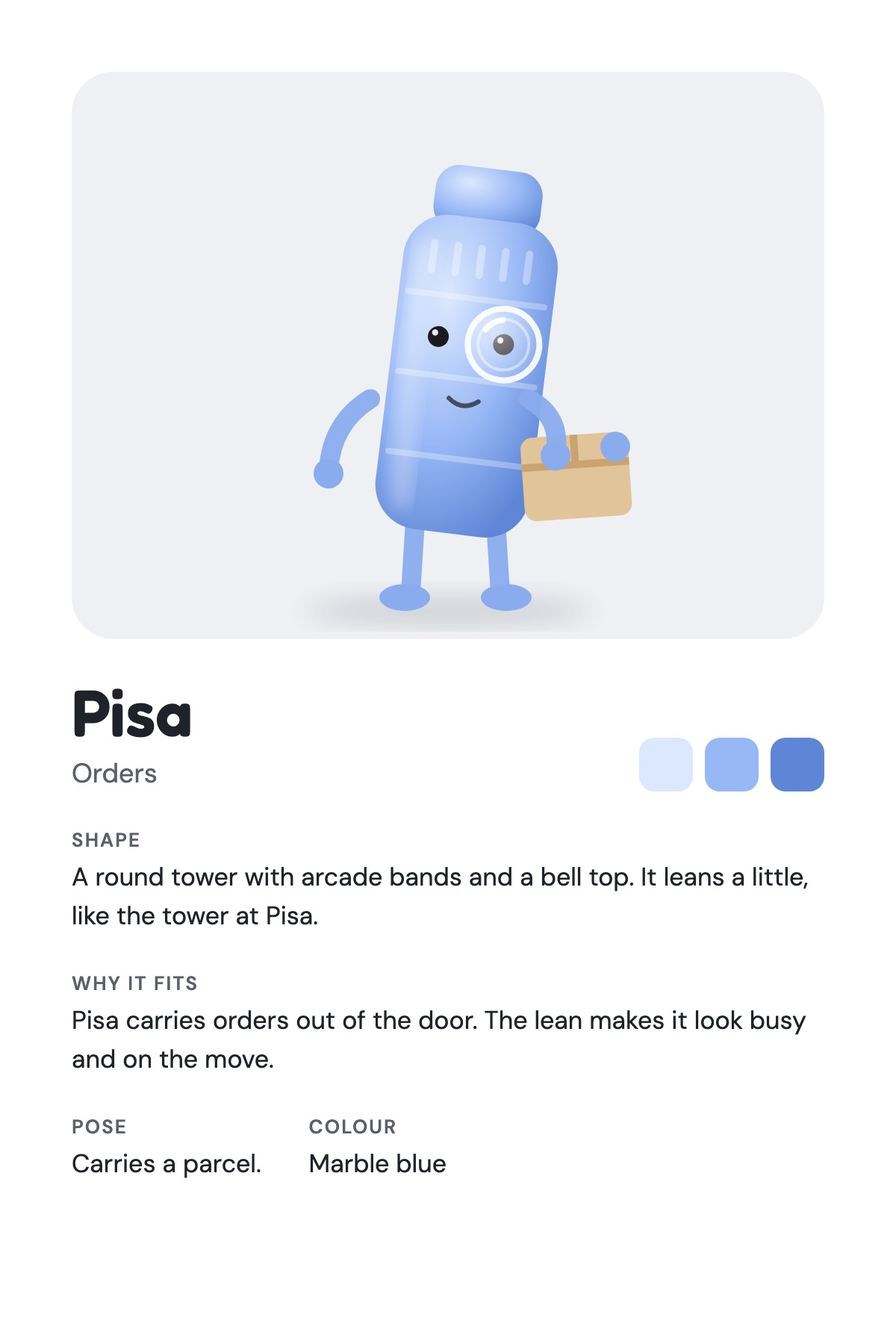
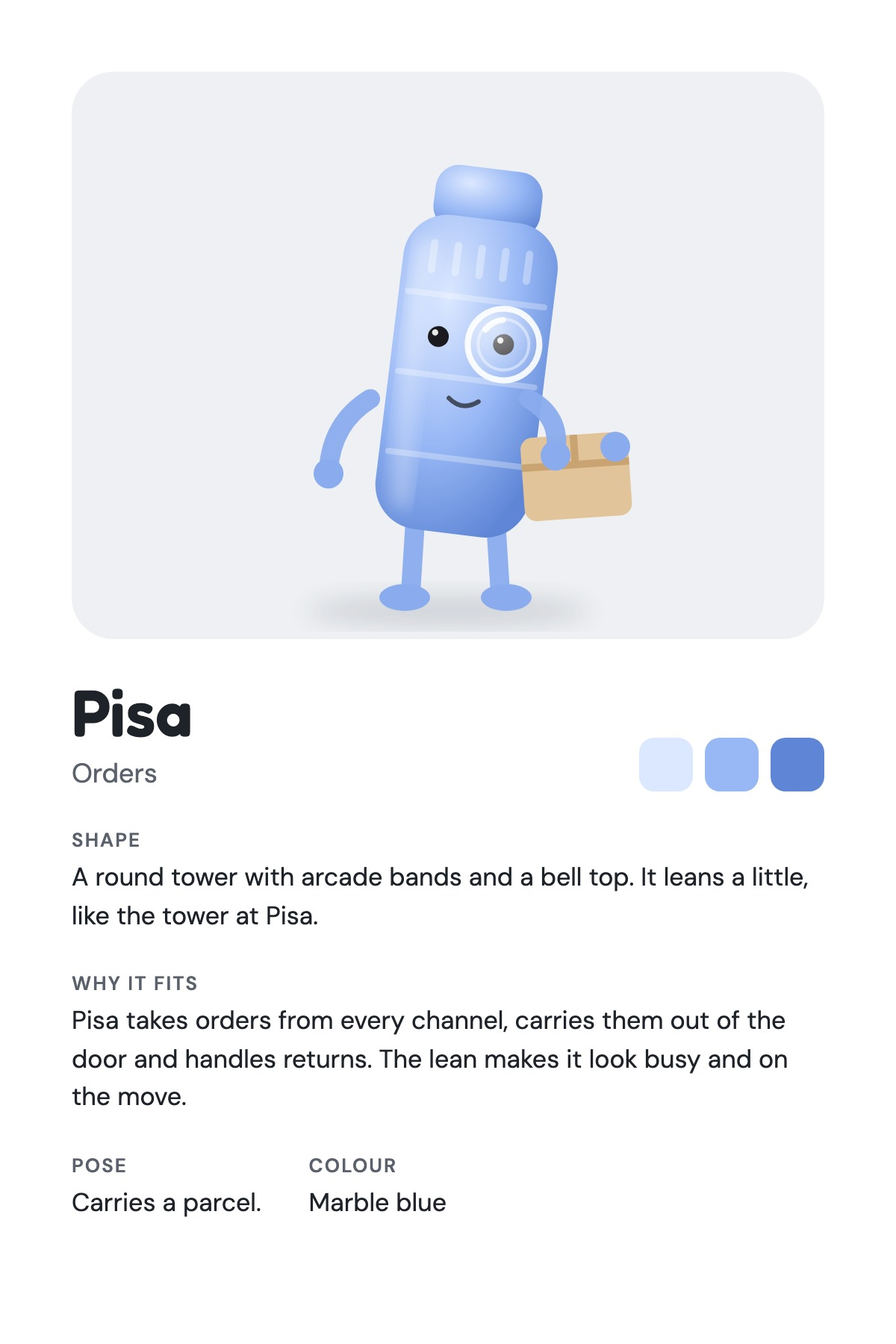
Add Alexandria and Venice, the catalog and channels mascots
Alexandria is a bookcase with an arched top. It keeps the product catalog correct. Venice is the Rialto Bridge. It lists the products on every sales channel. Pisa now takes orders from every channel and handles returns. The lineup has seven columns for thirteen mascots.

Changed region(s): [[0.0617, 0.7467, 0.8942, 0.9022]]

diff --git a/index.html b/index.html
@@ -127,7 +127,7 @@ th:first-child,td:first-child{padding-left:20px}th:last-child,td:last-child{padd
 <a class="brand" href="#overview">tensquads design system</a>
 <div class="search"><svg viewBox="0 0 18 18" width="18" height="18" aria-hidden="true" fill="none" stroke="currentColor" stroke-width="1.4" stroke-linecap="round" stroke-linejoin="round"><circle cx="8" cy="8" r="4.8"/><path d="m11.6 11.6 3.4 3.4"/></svg><input type="search" placeholder="Search" aria-label="Search the menu" autocomplete="off"></div>
 <nav aria-label="Design system">
-<ul class="main-nav"><li><a href="#overview" data-q="Overview"><svg viewBox="0 0 18 18" width="18" height="18" aria-hidden="true" fill="none" stroke="currentColor" stroke-width="1.4" stroke-linecap="round" stroke-linejoin="round"><path d="M2.5 3.5h4.5a2 2 0 0 1 2 2v8a1.5 1.5 0 0 0-1.5-1.5h-5zM15.5 3.5H11a2 2 0 0 0-2 2v8a1.5 1.5 0 0 1 1.5-1.5h5z"/></svg><span>Overview</span></a></li><li><a href="#colors" data-q="Colors"><svg viewBox="0 0 18 18" width="18" height="18" aria-hidden="true" fill="none" stroke="currentColor" stroke-width="1.4" stroke-linecap="round" stroke-linejoin="round"><path d="M9 2.5a6.5 6.5 0 1 0 0 13c1 0 1.5-.6 1.5-1.4 0-1.1-.9-1.4-.9-2.3 0-.8.6-1.3 1.4-1.3h1.6a2.9 2.9 0 0 0 2.9-2.9C15.5 4.9 12.6 2.5 9 2.5z"/><circle cx="5.8" cy="8" r=".9"/><circle cx="8" cy="5.5" r=".9"/><circle cx="11.2" cy="6.2" r=".9"/></svg><span>Colors</span><span class="n">265</span></a></li><li><a href="#typography" data-q="Typography"><svg viewBox="0 0 18 18" width="18" height="18" aria-hidden="true" fill="none" stroke="currentColor" stroke-width="1.4" stroke-linecap="round" stroke-linejoin="round"><path d="M2.5 6V4.5h7V6M6 4.5v9M10 9V8h5.5v1M12.75 8v5.5"/></svg><span>Typography</span><span class="n">33</span></a></li><li><a href="#spacing" data-q="Spacing"><svg viewBox="0 0 18 18" width="18" height="18" aria-hidden="true" fill="none" stroke="currentColor" stroke-width="1.4" stroke-linecap="round" stroke-linejoin="round"><path d="M2.5 9h13M5 6.5 2.5 9 5 11.5M13 6.5l2.5 2.5-2.5 2.5"/></svg><span>Spacing</span><span class="n">45</span></a></li><li><a href="#radius" data-q="Corner radius"><svg viewBox="0 0 18 18" width="18" height="18" aria-hidden="true" fill="none" stroke="currentColor" stroke-width="1.4" stroke-linecap="round" stroke-linejoin="round"><path d="M3 7V5a2 2 0 0 1 2-2h2M11 3h2a2 2 0 0 1 2 2v2M15 11v2a2 2 0 0 1-2 2h-2M7 15H5a2 2 0 0 1-2-2v-2"/></svg><span>Corner radius</span><span class="n">10</span></a></li><li><a href="#shadows" data-q="Shadows"><svg viewBox="0 0 18 18" width="18" height="18" aria-hidden="true" fill="none" stroke="currentColor" stroke-width="1.4" stroke-linecap="round" stroke-linejoin="round"><rect x="2.5" y="2.5" width="9.5" height="9.5" rx="2"/><path d="M12 6h1.5a2 2 0 0 1 2 2v5.5a2 2 0 0 1-2 2H8a2 2 0 0 1-2-2V12"/></svg><span>Shadows</span><span class="n">11</span></a></li><li><a href="#easing" data-q="Easing"><svg viewBox="0 0 18 18" width="18" height="18" aria-hidden="true" fill="none" stroke="currentColor" stroke-width="1.4" stroke-linecap="round" stroke-linejoin="round"><circle cx="9" cy="9" r="6.5"/><path d="M9 2.5a6.5 6.5 0 0 0 0 13"/></svg><span>Easing</span><span class="n">5</span></a></li><li><a href="#duration" data-q="Duration"><svg viewBox="0 0 18 18" width="18" height="18" aria-hidden="true" fill="none" stroke="currentColor" stroke-width="1.4" stroke-linecap="round" stroke-linejoin="round"><circle cx="9" cy="9.5" r="6"/><path d="M9 6.5v3l2 1.5M7 2h4"/></svg><span>Duration</span><span class="n">3</span></a></li><li><a href="#components" data-q="Components"><svg viewBox="0 0 18 18" width="18" height="18" aria-hidden="true" fill="none" stroke="currentColor" stroke-width="1.4" stroke-linecap="round" stroke-linejoin="round"><path d="M9 2.5 15 5.8v6.4L9 15.5 3 12.2V5.8zM3 5.8 9 9l6-3.2M9 9v6.5"/></svg><span>Components</span><span class="n">28</span></a><ul class="subnav"><li class="sub-h">Actions</li><li><a href="#components/Badge" data-q="Badge Actions">Badge</a></li><li><a href="#components/Button" data-q="Button Actions">Button</a></li><li><a href="#components/Chip" data-q="Chip Actions">Chip</a></li><li><a href="#components/SegmentedControl" data-q="SegmentedControl Actions">SegmentedControl</a></li><li class="sub-h">Forms</li><li><a href="#components/Input" data-q="Input Forms">Input</a></li><li><a href="#components/Switch" data-q="Switch Forms">Switch</a></li><li class="sub-h">Canvas</li><li><a href="#components/BranchNode" data-q="BranchNode Canvas">BranchNode</a></li><li><a href="#components/Canvas" data-q="Canvas Canvas">Canvas</a></li><li><a href="#components/MiniMap" data-q="MiniMap Canvas">MiniMap</a></li><li><a href="#components/Node" data-q="Node Canvas">Node</a></li><li class="sub-h">Panels</li><li><a href="#components/Inspector" data-q="Inspector Panels">Inspector</a></li><li><a href="#components/Palette" data-q="Palette Panels">Palette</a></li><li class="sub-h">Chrome</li><li><a href="#components/Chat" data-q="Chat Chrome">Chat</a></li><li><a href="#components/CommandPalette" data-q="CommandPalette Chrome">CommandPalette</a></li><li><a href="#components/Header" data-q="Header Chrome">Header</a></li><li><a href="#components/ThemeToggle" data-q="ThemeToggle Chrome">ThemeToggle</a></li><li><a href="#components/Toolbar" data-q="Toolbar Chrome">Toolbar</a></li><li class="sub-h">Data display</li><li><a href="#components/BarChart" data-q="BarChart Data display">BarChart</a></li><li><a href="#components/Bars" data-q="Bars Data display">Bars</a></li><li><a href="#components/Card" data-q="Card Data display">Card</a></li><li><a href="#components/DataTable" data-q="DataTable Data display">DataTable</a></li><li><a href="#components/Distribution" data-q="Distribution Data display">Distribution</a></li><li><a href="#components/EmptyState" data-q="EmptyState Data display">EmptyState</a></li><li><a href="#components/Menu" data-q="Menu Data display">Menu</a></li><li><a href="#components/PageHeader" data-q="PageHeader Data display">PageHeader</a></li><li><a href="#components/StatTile" data-q="StatTile Data display">StatTile</a></li><li><a href="#components/WorkflowCard" data-q="WorkflowCard Data display">WorkflowCard</a></li><li class="sub-h">Pages</li><li><a href="#components/Dashboard" data-q="Dashboard Pages">Dashboard</a></li></ul></li><li><a href="#mascots" data-q="Mascots"><svg viewBox="0 0 18 18" width="18" height="18" aria-hidden="true" fill="none" stroke="currentColor" stroke-width="1.4" stroke-linecap="round" stroke-linejoin="round"><rect x="2.5" y="2.5" width="13" height="13" rx="3"/><circle cx="7" cy="8" r="1"/><circle cx="11.5" cy="8" r="2"/><path d="M6.5 12c1.5 1 3.5 1 5 0"/></svg><span>Mascots</span><span class="n">11</span></a></li></ul>
+<ul class="main-nav"><li><a href="#overview" data-q="Overview"><svg viewBox="0 0 18 18" width="18" height="18" aria-hidden="true" fill="none" stroke="currentColor" stroke-width="1.4" stroke-linecap="round" stroke-linejoin="round"><path d="M2.5 3.5h4.5a2 2 0 0 1 2 2v8a1.5 1.5 0 0 0-1.5-1.5h-5zM15.5 3.5H11a2 2 0 0 0-2 2v8a1.5 1.5 0 0 1 1.5-1.5h5z"/></svg><span>Overview</span></a></li><li><a href="#colors" data-q="Colors"><svg viewBox="0 0 18 18" width="18" height="18" aria-hidden="true" fill="none" stroke="currentColor" stroke-width="1.4" stroke-linecap="round" stroke-linejoin="round"><path d="M9 2.5a6.5 6.5 0 1 0 0 13c1 0 1.5-.6 1.5-1.4 0-1.1-.9-1.4-.9-2.3 0-.8.6-1.3 1.4-1.3h1.6a2.9 2.9 0 0 0 2.9-2.9C15.5 4.9 12.6 2.5 9 2.5z"/><circle cx="5.8" cy="8" r=".9"/><circle cx="8" cy="5.5" r=".9"/><circle cx="11.2" cy="6.2" r=".9"/></svg><span>Colors</span><span class="n">265</span></a></li><li><a href="#typography" data-q="Typography"><svg viewBox="0 0 18 18" width="18" height="18" aria-hidden="true" fill="none" stroke="currentColor" stroke-width="1.4" stroke-linecap="round" stroke-linejoin="round"><path d="M2.5 6V4.5h7V6M6 4.5v9M10 9V8h5.5v1M12.75 8v5.5"/></svg><span>Typography</span><span class="n">33</span></a></li><li><a href="#spacing" data-q="Spacing"><svg viewBox="0 0 18 18" width="18" height="18" aria-hidden="true" fill="none" stroke="currentColor" stroke-width="1.4" stroke-linecap="round" stroke-linejoin="round"><path d="M2.5 9h13M5 6.5 2.5 9 5 11.5M13 6.5l2.5 2.5-2.5 2.5"/></svg><span>Spacing</span><span class="n">45</span></a></li><li><a href="#radius" data-q="Corner radius"><svg viewBox="0 0 18 18" width="18" height="18" aria-hidden="true" fill="none" stroke="currentColor" stroke-width="1.4" stroke-linecap="round" stroke-linejoin="round"><path d="M3 7V5a2 2 0 0 1 2-2h2M11 3h2a2 2 0 0 1 2 2v2M15 11v2a2 2 0 0 1-2 2h-2M7 15H5a2 2 0 0 1-2-2v-2"/></svg><span>Corner radius</span><span class="n">10</span></a></li><li><a href="#shadows" data-q="Shadows"><svg viewBox="0 0 18 18" width="18" height="18" aria-hidden="true" fill="none" stroke="currentColor" stroke-width="1.4" stroke-linecap="round" stroke-linejoin="round"><rect x="2.5" y="2.5" width="9.5" height="9.5" rx="2"/><path d="M12 6h1.5a2 2 0 0 1 2 2v5.5a2 2 0 0 1-2 2H8a2 2 0 0 1-2-2V12"/></svg><span>Shadows</span><span class="n">11</span></a></li><li><a href="#easing" data-q="Easing"><svg viewBox="0 0 18 18" width="18" height="18" aria-hidden="true" fill="none" stroke="currentColor" stroke-width="1.4" stroke-linecap="round" stroke-linejoin="round"><circle cx="9" cy="9" r="6.5"/><path d="M9 2.5a6.5 6.5 0 0 0 0 13"/></svg><span>Easing</span><span class="n">5</span></a></li><li><a href="#duration" data-q="Duration"><svg viewBox="0 0 18 18" width="18" height="18" aria-hidden="true" fill="none" stroke="currentColor" stroke-width="1.4" stroke-linecap="round" stroke-linejoin="round"><circle cx="9" cy="9.5" r="6"/><path d="M9 6.5v3l2 1.5M7 2h4"/></svg><span>Duration</span><span class="n">3</span></a></li><li><a href="#components" data-q="Components"><svg viewBox="0 0 18 18" width="18" height="18" aria-hidden="true" fill="none" stroke="currentColor" stroke-width="1.4" stroke-linecap="round" stroke-linejoin="round"><path d="M9 2.5 15 5.8v6.4L9 15.5 3 12.2V5.8zM3 5.8 9 9l6-3.2M9 9v6.5"/></svg><span>Components</span><span class="n">28</span></a><ul class="subnav"><li class="sub-h">Actions</li><li><a href="#components/Badge" data-q="Badge Actions">Badge</a></li><li><a href="#components/Button" data-q="Button Actions">Button</a></li><li><a href="#components/Chip" data-q="Chip Actions">Chip</a></li><li><a href="#components/SegmentedControl" data-q="SegmentedControl Actions">SegmentedControl</a></li><li class="sub-h">Forms</li><li><a href="#components/Input" data-q="Input Forms">Input</a></li><li><a href="#components/Switch" data-q="Switch Forms">Switch</a></li><li class="sub-h">Canvas</li><li><a href="#components/BranchNode" data-q="BranchNode Canvas">BranchNode</a></li><li><a href="#components/Canvas" data-q="Canvas Canvas">Canvas</a></li><li><a href="#components/MiniMap" data-q="MiniMap Canvas">MiniMap</a></li><li><a href="#components/Node" data-q="Node Canvas">Node</a></li><li class="sub-h">Panels</li><li><a href="#components/Inspector" data-q="Inspector Panels">Inspector</a></li><li><a href="#components/Palette" data-q="Palette Panels">Palette</a></li><li class="sub-h">Chrome</li><li><a href="#components/Chat" data-q="Chat Chrome">Chat</a></li><li><a href="#components/CommandPalette" data-q="CommandPalette Chrome">CommandPalette</a></li><li><a href="#components/Header" data-q="Header Chrome">Header</a></li><li><a href="#components/ThemeToggle" data-q="ThemeToggle Chrome">ThemeToggle</a></li><li><a href="#components/Toolbar" data-q="Toolbar Chrome">Toolbar</a></li><li class="sub-h">Data display</li><li><a href="#components/BarChart" data-q="BarChart Data display">BarChart</a></li><li><a href="#components/Bars" data-q="Bars Data display">Bars</a></li><li><a href="#components/Card" data-q="Card Data display">Card</a></li><li><a href="#components/DataTable" data-q="DataTable Data display">DataTable</a></li><li><a href="#components/Distribution" data-q="Distribution Data display">Distribution</a></li><li><a href="#components/EmptyState" data-q="EmptyState Data display">EmptyState</a></li><li><a href="#components/Menu" data-q="Menu Data display">Menu</a></li><li><a href="#components/PageHeader" data-q="PageHeader Data display">PageHeader</a></li><li><a href="#components/StatTile" data-q="StatTile Data display">StatTile</a></li><li><a href="#components/WorkflowCard" data-q="WorkflowCard Data display">WorkflowCard</a></li><li class="sub-h">Pages</li><li><a href="#components/Dashboard" data-q="Dashboard Pages">Dashboard</a></li></ul></li><li><a href="#mascots" data-q="Mascots"><svg viewBox="0 0 18 18" width="18" height="18" aria-hidden="true" fill="none" stroke="currentColor" stroke-width="1.4" stroke-linecap="round" stroke-linejoin="round"><rect x="2.5" y="2.5" width="13" height="13" rx="3"/><circle cx="7" cy="8" r="1"/><circle cx="11.5" cy="8" r="2"/><path d="M6.5 12c1.5 1 3.5 1 5 0"/></svg><span>Mascots</span><span class="n">13</span></a></li></ul>
 <p class="none">No match.</p>
 <hr>
 <ul><li><a href="https://github.com/moeghashim/tensquads-design-system"><svg viewBox="0 0 18 18" width="18" height="18" aria-hidden="true" fill="none" stroke="currentColor" stroke-width="1.4" stroke-linecap="round" stroke-linejoin="round"><path d="M2.5 5.5a1.5 1.5 0 0 1 1.5-1.5h3.2l1.6 1.8H14a1.5 1.5 0 0 1 1.5 1.5v6.2A1.5 1.5 0 0 1 14 15H4a1.5 1.5 0 0 1-1.5-1.5z"/></svg><span>Source files</span></a></li></ul>
@@ -137,8 +137,8 @@ th:first-child,td:first-child{padding-left:20px}th:last-child,td:last-child{padd
 <main>
 <div class="sheet">
 <section class="view" data-view="overview" data-title="Overview" aria-labelledby="h-overview">
-<header class="vhead"><div><h1 id="h-overview" tabindex="-1">Overview</h1><p class="sub">The reference for how tensquads looks. It holds Agent-UI, the visual language of the app, and the eleven squad mascots. Agent-UI tokens version 1.</p></div></header>
-<div class="stats"><a class="stat" href="#colors"><svg viewBox="0 0 18 18" width="18" height="18" aria-hidden="true" fill="none" stroke="currentColor" stroke-width="1.4" stroke-linecap="round" stroke-linejoin="round"><path d="M9 2.5a6.5 6.5 0 1 0 0 13c1 0 1.5-.6 1.5-1.4 0-1.1-.9-1.4-.9-2.3 0-.8.6-1.3 1.4-1.3h1.6a2.9 2.9 0 0 0 2.9-2.9C15.5 4.9 12.6 2.5 9 2.5z"/><circle cx="5.8" cy="8" r=".9"/><circle cx="8" cy="5.5" r=".9"/><circle cx="11.2" cy="6.2" r=".9"/></svg><b>265</b><span>Colors</span></a><a class="stat" href="#typography"><svg viewBox="0 0 18 18" width="18" height="18" aria-hidden="true" fill="none" stroke="currentColor" stroke-width="1.4" stroke-linecap="round" stroke-linejoin="round"><path d="M2.5 6V4.5h7V6M6 4.5v9M10 9V8h5.5v1M12.75 8v5.5"/></svg><b>33</b><span>Typography</span></a><a class="stat" href="#spacing"><svg viewBox="0 0 18 18" width="18" height="18" aria-hidden="true" fill="none" stroke="currentColor" stroke-width="1.4" stroke-linecap="round" stroke-linejoin="round"><path d="M2.5 9h13M5 6.5 2.5 9 5 11.5M13 6.5l2.5 2.5-2.5 2.5"/></svg><b>45</b><span>Spacing</span></a><a class="stat" href="#radius"><svg viewBox="0 0 18 18" width="18" height="18" aria-hidden="true" fill="none" stroke="currentColor" stroke-width="1.4" stroke-linecap="round" stroke-linejoin="round"><path d="M3 7V5a2 2 0 0 1 2-2h2M11 3h2a2 2 0 0 1 2 2v2M15 11v2a2 2 0 0 1-2 2h-2M7 15H5a2 2 0 0 1-2-2v-2"/></svg><b>10</b><span>Corner radius</span></a><a class="stat" href="#shadows"><svg viewBox="0 0 18 18" width="18" height="18" aria-hidden="true" fill="none" stroke="currentColor" stroke-width="1.4" stroke-linecap="round" stroke-linejoin="round"><rect x="2.5" y="2.5" width="9.5" height="9.5" rx="2"/><path d="M12 6h1.5a2 2 0 0 1 2 2v5.5a2 2 0 0 1-2 2H8a2 2 0 0 1-2-2V12"/></svg><b>11</b><span>Shadows</span></a><a class="stat" href="#easing"><svg viewBox="0 0 18 18" width="18" height="18" aria-hidden="true" fill="none" stroke="currentColor" stroke-width="1.4" stroke-linecap="round" stroke-linejoin="round"><circle cx="9" cy="9" r="6.5"/><path d="M9 2.5a6.5 6.5 0 0 0 0 13"/></svg><b>5</b><span>Easing</span></a><a class="stat" href="#duration"><svg viewBox="0 0 18 18" width="18" height="18" aria-hidden="true" fill="none" stroke="currentColor" stroke-width="1.4" stroke-linecap="round" stroke-linejoin="round"><circle cx="9" cy="9.5" r="6"/><path d="M9 6.5v3l2 1.5M7 2h4"/></svg><b>3</b><span>Duration</span></a><a class="stat" href="#components"><svg viewBox="0 0 18 18" width="18" height="18" aria-hidden="true" fill="none" stroke="currentColor" stroke-width="1.4" stroke-linecap="round" stroke-linejoin="round"><path d="M9 2.5 15 5.8v6.4L9 15.5 3 12.2V5.8zM3 5.8 9 9l6-3.2M9 9v6.5"/></svg><b>28</b><span>Components</span></a><a class="stat" href="#mascots"><svg viewBox="0 0 18 18" width="18" height="18" aria-hidden="true" fill="none" stroke="currentColor" stroke-width="1.4" stroke-linecap="round" stroke-linejoin="round"><rect x="2.5" y="2.5" width="13" height="13" rx="3"/><circle cx="7" cy="8" r="1"/><circle cx="11.5" cy="8" r="2"/><path d="M6.5 12c1.5 1 3.5 1 5 0"/></svg><b>11</b><span>Mascots</span></a></div><div class="prose"><p>Agent-UI is the visual language for a node-based agent builder: a quiet neutral chrome, one near-black primary, and six soft tints that tell node families apart. The interface stays out of the way so the graph reads; colour appears only where it carries meaning.</p>
+<header class="vhead"><div><h1 id="h-overview" tabindex="-1">Overview</h1><p class="sub">The reference for how tensquads looks. It holds Agent-UI, the visual language of the app, and the thirteen squad mascots. Agent-UI tokens version 1.</p></div></header>
+<div class="stats"><a class="stat" href="#colors"><svg viewBox="0 0 18 18" width="18" height="18" aria-hidden="true" fill="none" stroke="currentColor" stroke-width="1.4" stroke-linecap="round" stroke-linejoin="round"><path d="M9 2.5a6.5 6.5 0 1 0 0 13c1 0 1.5-.6 1.5-1.4 0-1.1-.9-1.4-.9-2.3 0-.8.6-1.3 1.4-1.3h1.6a2.9 2.9 0 0 0 2.9-2.9C15.5 4.9 12.6 2.5 9 2.5z"/><circle cx="5.8" cy="8" r=".9"/><circle cx="8" cy="5.5" r=".9"/><circle cx="11.2" cy="6.2" r=".9"/></svg><b>265</b><span>Colors</span></a><a class="stat" href="#typography"><svg viewBox="0 0 18 18" width="18" height="18" aria-hidden="true" fill="none" stroke="currentColor" stroke-width="1.4" stroke-linecap="round" stroke-linejoin="round"><path d="M2.5 6V4.5h7V6M6 4.5v9M10 9V8h5.5v1M12.75 8v5.5"/></svg><b>33</b><span>Typography</span></a><a class="stat" href="#spacing"><svg viewBox="0 0 18 18" width="18" height="18" aria-hidden="true" fill="none" stroke="currentColor" stroke-width="1.4" stroke-linecap="round" stroke-linejoin="round"><path d="M2.5 9h13M5 6.5 2.5 9 5 11.5M13 6.5l2.5 2.5-2.5 2.5"/></svg><b>45</b><span>Spacing</span></a><a class="stat" href="#radius"><svg viewBox="0 0 18 18" width="18" height="18" aria-hidden="true" fill="none" stroke="currentColor" stroke-width="1.4" stroke-linecap="round" stroke-linejoin="round"><path d="M3 7V5a2 2 0 0 1 2-2h2M11 3h2a2 2 0 0 1 2 2v2M15 11v2a2 2 0 0 1-2 2h-2M7 15H5a2 2 0 0 1-2-2v-2"/></svg><b>10</b><span>Corner radius</span></a><a class="stat" href="#shadows"><svg viewBox="0 0 18 18" width="18" height="18" aria-hidden="true" fill="none" stroke="currentColor" stroke-width="1.4" stroke-linecap="round" stroke-linejoin="round"><rect x="2.5" y="2.5" width="9.5" height="9.5" rx="2"/><path d="M12 6h1.5a2 2 0 0 1 2 2v5.5a2 2 0 0 1-2 2H8a2 2 0 0 1-2-2V12"/></svg><b>11</b><span>Shadows</span></a><a class="stat" href="#easing"><svg viewBox="0 0 18 18" width="18" height="18" aria-hidden="true" fill="none" stroke="currentColor" stroke-width="1.4" stroke-linecap="round" stroke-linejoin="round"><circle cx="9" cy="9" r="6.5"/><path d="M9 2.5a6.5 6.5 0 0 0 0 13"/></svg><b>5</b><span>Easing</span></a><a class="stat" href="#duration"><svg viewBox="0 0 18 18" width="18" height="18" aria-hidden="true" fill="none" stroke="currentColor" stroke-width="1.4" stroke-linecap="round" stroke-linejoin="round"><circle cx="9" cy="9.5" r="6"/><path d="M9 6.5v3l2 1.5M7 2h4"/></svg><b>3</b><span>Duration</span></a><a class="stat" href="#components"><svg viewBox="0 0 18 18" width="18" height="18" aria-hidden="true" fill="none" stroke="currentColor" stroke-width="1.4" stroke-linecap="round" stroke-linejoin="round"><path d="M9 2.5 15 5.8v6.4L9 15.5 3 12.2V5.8zM3 5.8 9 9l6-3.2M9 9v6.5"/></svg><b>28</b><span>Components</span></a><a class="stat" href="#mascots"><svg viewBox="0 0 18 18" width="18" height="18" aria-hidden="true" fill="none" stroke="currentColor" stroke-width="1.4" stroke-linecap="round" stroke-linejoin="round"><rect x="2.5" y="2.5" width="13" height="13" rx="3"/><circle cx="7" cy="8" r="1"/><circle cx="11.5" cy="8" r="2"/><path d="M6.5 12c1.5 1 3.5 1 5 0"/></svg><b>13</b><span>Mascots</span></a></div><div class="prose"><p>Agent-UI is the visual language for a node-based agent builder: a quiet neutral chrome, one near-black primary, and six soft tints that tell node families apart. The interface stays out of the way so the graph reads; colour appears only where it carries meaning.</p>
 <h2>Principles</h2>
 <ul><li><strong>Neutral first.</strong> Every surface is a grey; hue is reserved for node families and status. The primary action is near-black (<code>primary-solid</code>), never blue.</li><li><strong>Layers by lightness, not by lines.</strong> Panels float on the canvas as slightly lighter cards with a 0.5px <code>panel-border</code>; nodes are white with a 1px ring (<code>shadow-node</code>). Borders are hairlines from the <code>alpha-*</code> ink scale, never solid grey lines.</li><li><strong>Soft, then quiet.</strong> Fills are 8% ink (<code>input-bg</code>, <code>primary-soft</code>); hovers step to 12%, presses to 16%. Nothing glows.</li><li><strong>Round where you hold it.</strong> Panels and node cards use <code>radius-2xl</code> (16px); tiles, inputs and rows <code>radius-md</code> (8px); anything in the header or floating over the canvas is a pill (<code>radius-full</code>).</li></ul>
 <h2>Content</h2>
@@ -485,7 +485,7 @@ th:first-child,td:first-child{padding-left:20px}th:last-child,td:last-child{padd
 <div class="mcard-head"><div><h3 class="mcard-name">Pisa</h3><div class="mcard-role">Orders</div></div>
 <div class="mcard-sw" aria-hidden="true"><span style="background:#DCE8FF"></span><span style="background:#97B7F5"></span><span style="background:#5F86D6"></span></div></div>
 <div class="mcard-row"><div class="mcard-label">Shape</div><div class="mcard-text">A round tower with arcade bands and a bell top. It leans a little, like the tower at Pisa.</div></div>
-<div class="mcard-row"><div class="mcard-label">Why it fits</div><div class="mcard-text">Pisa carries orders out of the door. The lean makes it look busy and on the move.</div></div>
+<div class="mcard-row"><div class="mcard-label">Why it fits</div><div class="mcard-text">Pisa takes orders from every channel, carries them out of the door and handles returns. The lean makes it look busy and on the move.</div></div>
 <div class="mcard-pair"><div class="mcard-row"><div class="mcard-label">Pose</div><div class="mcard-text">Carries a parcel.</div></div><div class="mcard-row"><div class="mcard-label">Colour</div><div class="mcard-text">Marble blue</div></div></div>
 </article></div><p class="dl"><a href="https://raw.githubusercontent.com/moeghashim/tensquads-design-system/main/mascots/svg/pisa.svg">SVG</a><a href="https://raw.githubusercontent.com/moeghashim/tensquads-design-system/main/mascots/png/pisa.png">PNG</a><a href="https://raw.githubusercontent.com/moeghashim/tensquads-design-system/main/mascots/jpeg/pisa.jpg">JPEG</a><a href="https://raw.githubusercontent.com/moeghashim/tensquads-design-system/main/mascots/cards/png/pisa.png">Card PNG</a><a href="https://raw.githubusercontent.com/moeghashim/tensquads-design-system/main/mascots/cards/jpeg/pisa.jpg">Card JPEG</a></p></div>
 <div class="mc"><div class="mcard-wrap"><article class="mcard" aria-label="Kyoto mascot card">
@@ -646,7 +646,50 @@ th:first-child,td:first-child{padding-left:20px}th:last-child,td:last-child{padd
 <div class="mcard-row"><div class="mcard-label">Shape</div><div class="mcard-text">An observatory dome with an open shutter slit and a red time ball on top, like the Royal Observatory at Greenwich.</div></div>
 <div class="mcard-row"><div class="mcard-label">Why it fits</div><div class="mcard-text">Every map starts at the meridian in Greenwich. Greenwich keeps the business on Google Maps and the other maps, correct and easy to find.</div></div>
 <div class="mcard-pair"><div class="mcard-row"><div class="mcard-label">Pose</div><div class="mcard-text">Holds up a folded map.</div></div><div class="mcard-row"><div class="mcard-label">Colour</div><div class="mcard-text">Meridian lime</div></div></div>
-</article></div><p class="dl"><a href="https://raw.githubusercontent.com/moeghashim/tensquads-design-system/main/mascots/svg/greenwich.svg">SVG</a><a href="https://raw.githubusercontent.com/moeghashim/tensquads-design-system/main/mascots/png/greenwich.png">PNG</a><a href="https://raw.githubusercontent.com/moeghashim/tensquads-design-system/main/mascots/jpeg/greenwich.jpg">JPEG</a><a href="https://raw.githubusercontent.com/moeghashim/tensquads-design-system/main/mascots/cards/png/greenwich.png">Card PNG</a><a href="https://raw.githubusercontent.com/moeghashim/tensquads-design-system/main/mascots/cards/jpeg/greenwich.jpg">Card JPEG</a></p></div></div>
+</article></div><p class="dl"><a href="https://raw.githubusercontent.com/moeghashim/tensquads-design-system/main/mascots/svg/greenwich.svg">SVG</a><a href="https://raw.githubusercontent.com/moeghashim/tensquads-design-system/main/mascots/png/greenwich.png">PNG</a><a href="https://raw.githubusercontent.com/moeghashim/tensquads-design-system/main/mascots/jpeg/greenwich.jpg">JPEG</a><a href="https://raw.githubusercontent.com/moeghashim/tensquads-design-system/main/mascots/cards/png/greenwich.png">Card PNG</a><a href="https://raw.githubusercontent.com/moeghashim/tensquads-design-system/main/mascots/cards/jpeg/greenwich.jpg">Card JPEG</a></p></div>
+<div class="mc"><div class="mcard-wrap"><article class="mcard" aria-label="Alexandria mascot card">
+<div class="mcard-art"><svg viewBox="0 0 300 370" role="img" aria-label="Alexandria, the catalog mascot"><defs><radialGradient id="pcatalogb" cx="32%" cy="26%" r="85%"><stop offset="0" stop-color="#D9DBFF"/><stop offset=".55" stop-color="#8E95F2"/><stop offset="1" stop-color="#4F56C4"/></radialGradient><radialGradient id="pcatalogl" cx="35%" cy="30%" r="75%"><stop offset="0" stop-color="#fff" stop-opacity=".55"/><stop offset="1" stop-color="#fff" stop-opacity=".08"/></radialGradient><filter id="pcatalogf" x="-20%" y="-20%" width="140%" height="140%"><feGaussianBlur stdDeviation="6"/></filter><filter id="pcatalogs" x="-50%" y="-50%" width="200%" height="200%"><feGaussianBlur stdDeviation="8"/></filter></defs><ellipse cx="150" cy="356" rx="95" ry="10" fill="#1B2430" opacity=".14" filter="url(#pcatalogs)"/><path d="M124 300 L121 344" fill="none" stroke="#8288EC" stroke-width="13" stroke-linecap="round" stroke-linejoin="round" opacity=".96"/><path d="M176 300 L179 344" fill="none" stroke="#8288EC" stroke-width="13" stroke-linecap="round" stroke-linejoin="round" opacity=".96"/><ellipse cx="117" cy="347" rx="17" ry="9" fill="#8288EC"/><ellipse cx="183" cy="347" rx="17" ry="9" fill="#8288EC"/>
+<path d="M96 222 Q70 238 72 270" fill="none" stroke="#8288EC" stroke-width="13" stroke-linecap="round" stroke-linejoin="round" opacity=".96"/><circle cx="72" cy="272" r="10" fill="#8288EC"/>
+<circle cx="150" cy="58" r="9" fill="#4F56C4" opacity=".85"/>
+<path d="M96 300 L96 118 A54 54 0 0 1 204 118 L204 300 Q204 312 192 312 L108 312 Q96 312 96 300 Z" fill="url(#pcatalogb)"/>
+<rect x="108" y="190" width="84" height="112" rx="8" fill="#4F56C4" opacity=".35"/>
+<rect x="112" y="204" width="12" height="38" rx="2" fill="#F4EFE4"/><rect x="126" y="198" width="10" height="44" rx="2" fill="#E5574A"/><rect x="138" y="206" width="14" height="36" rx="2" fill="#D9AE45"/><rect x="154" y="200" width="10" height="42" rx="2" fill="#5EA885"/><rect x="166" y="204" width="12" height="38" rx="2" fill="#F4EFE4"/><rect x="180" y="210" width="10" height="34" rx="2" fill="#5F86D6" transform="rotate(-12 185 244)"/>
+<rect x="104" y="242" width="92" height="6" rx="3" fill="#4F56C4" opacity=".85"/>
+<rect x="112" y="256" width="10" height="40" rx="2" fill="#5F86D6"/><rect x="124" y="262" width="14" height="34" rx="2" fill="#F4EFE4"/><rect x="140" y="254" width="10" height="42" rx="2" fill="#D9AE45"/><rect x="152" y="260" width="12" height="36" rx="2" fill="#E5574A"/><rect x="166" y="256" width="10" height="40" rx="2" fill="#F4EFE4"/><rect x="178" y="262" width="12" height="34" rx="2" fill="#5EA885"/>
+<rect x="104" y="296" width="92" height="6" rx="3" fill="#4F56C4" opacity=".85"/>
+<path d="M106 118 A44 44 0 0 1 140 76 Q118 100 112 184 Z" fill="#fff" opacity=".42" filter="url(#pcatalogf)"/>
+<circle cx="128" cy="146" r="7" fill="#1B1B1F"/><circle cx="125.55" cy="143.55" r="2.1" fill="#fff" opacity=".9"/><circle cx="172" cy="146" r="7" fill="#1B1B1F"/><circle cx="169.55" cy="143.55" r="2.1" fill="#fff" opacity=".9"/><circle cx="172" cy="146" r="24" fill="url(#pcatalogl)" stroke="#fff" stroke-opacity=".9" stroke-width="4"/><circle cx="172" cy="146" r="17" fill="none" stroke="#fff" stroke-opacity=".45" stroke-width="2"/><path d="M158.8 137.6 A16.799999999999997 16.799999999999997 0 0 1 169.6 129.68" fill="none" stroke="#fff" stroke-width="4" stroke-linecap="round" opacity=".85"/><path d="M140 176 Q150 184 160 176" fill="none" stroke="#1B1B1F" stroke-width="3" stroke-linecap="round" opacity=".7"/>
+<path d="M204 214 Q236 206 244 180" fill="none" stroke="#8288EC" stroke-width="13" stroke-linecap="round" stroke-linejoin="round" opacity=".96"/>
+<path d="M244 180 Q252 196 258 210" fill="none" stroke="#D3C9B5" stroke-width="2"/>
+<g transform="rotate(14 258 232)"><path d="M248 216 L258 206 L268 216 L268 256 L248 256 Z" fill="#F4EFE4" stroke="#D3C9B5" stroke-width="2" stroke-linejoin="round"/><circle cx="258" cy="216" r="3" fill="#D3C9B5"/><path d="M253 232 L263 232 M253 242 L261 242" stroke="#E5574A" stroke-width="3" stroke-linecap="round"/></g>
+<circle cx="244" cy="180" r="10" fill="#8288EC"/></svg></div>
+<div class="mcard-head"><div><h3 class="mcard-name">Alexandria</h3><div class="mcard-role">Catalog</div></div>
+<div class="mcard-sw" aria-hidden="true"><span style="background:#D9DBFF"></span><span style="background:#8E95F2"></span><span style="background:#4F56C4"></span></div></div>
+<div class="mcard-row"><div class="mcard-label">Shape</div><div class="mcard-text">A tall bookcase with an arched top and shelves of coloured book spines, like the great library of Alexandria.</div></div>
+<div class="mcard-row"><div class="mcard-label">Why it fits</div><div class="mcard-text">The library at Alexandria kept a catalog of the known world. Alexandria keeps every product, title, photo, variant and price correct.</div></div>
+<div class="mcard-pair"><div class="mcard-row"><div class="mcard-label">Pose</div><div class="mcard-text">Holds up a price tag.</div></div><div class="mcard-row"><div class="mcard-label">Colour</div><div class="mcard-text">Lapis indigo</div></div></div>
+</article></div><p class="dl"><a href="https://raw.githubusercontent.com/moeghashim/tensquads-design-system/main/mascots/svg/alexandria.svg">SVG</a><a href="https://raw.githubusercontent.com/moeghashim/tensquads-design-system/main/mascots/png/alexandria.png">PNG</a><a href="https://raw.githubusercontent.com/moeghashim/tensquads-design-system/main/mascots/jpeg/alexandria.jpg">JPEG</a><a href="https://raw.githubusercontent.com/moeghashim/tensquads-design-system/main/mascots/cards/png/alexandria.png">Card PNG</a><a href="https://raw.githubusercontent.com/moeghashim/tensquads-design-system/main/mascots/cards/jpeg/alexandria.jpg">Card JPEG</a></p></div>
+<div class="mc"><div class="mcard-wrap"><article class="mcard" aria-label="Venice mascot card">
+<div class="mcard-art"><svg viewBox="0 0 300 370" role="img" aria-label="Venice, the channels mascot"><defs><radialGradient id="pchannelsb" cx="32%" cy="26%" r="85%"><stop offset="0" stop-color="#FFD6F0"/><stop offset=".55" stop-color="#F28CCB"/><stop offset="1" stop-color="#C9529C"/></radialGradient><radialGradient id="pchannelsl" cx="35%" cy="30%" r="75%"><stop offset="0" stop-color="#fff" stop-opacity=".55"/><stop offset="1" stop-color="#fff" stop-opacity=".08"/></radialGradient><filter id="pchannelsf" x="-20%" y="-20%" width="140%" height="140%"><feGaussianBlur stdDeviation="6"/></filter><filter id="pchannelss" x="-50%" y="-50%" width="200%" height="200%"><feGaussianBlur stdDeviation="8"/></filter></defs><ellipse cx="150" cy="356" rx="95" ry="10" fill="#1B2430" opacity=".14" filter="url(#pchannelss)"/><path d="M94 304 L91 344" fill="none" stroke="#EC80C2" stroke-width="13" stroke-linecap="round" stroke-linejoin="round" opacity=".96"/><path d="M206 304 L209 344" fill="none" stroke="#EC80C2" stroke-width="13" stroke-linecap="round" stroke-linejoin="round" opacity=".96"/><ellipse cx="87" cy="347" rx="17" ry="9" fill="#EC80C2"/><ellipse cx="213" cy="347" rx="17" ry="9" fill="#EC80C2"/>
+<path d="M74 236 Q50 252 54 282" fill="none" stroke="#EC80C2" stroke-width="13" stroke-linecap="round" stroke-linejoin="round" opacity=".96"/><circle cx="54" cy="284" r="10" fill="#EC80C2"/>
+<path d="M214 112 L276 300" stroke="#B0894A" stroke-width="7" stroke-linecap="round"/>
+<ellipse cx="279" cy="310" rx="9" ry="22" fill="#C99A5B" transform="rotate(-18 279 310)"/>
+<path d="M122 120 L150 98 L178 120 Z" fill="#C9529C" opacity=".85"/>
+<rect x="128" y="118" width="44" height="44" rx="4" fill="url(#pchannelsb)"/>
+<path d="M140 162 L140 138 A10 10 0 0 1 160 138 L160 162 Z" fill="#C9529C" opacity=".55"/>
+<path d="M74 304 L74 196 Q150 116 226 196 L226 304 Q226 312 218 312 L188 312 L188 300 A38 30 0 0 0 112 300 L112 312 L82 312 Q74 312 74 304 Z" fill="url(#pchannelsb)"/>
+<path d="M86 208 L86 200 A5 5 0 0 1 96 200 L96 208 Z M100 208 L100 200 A5 5 0 0 1 110 200 L110 208 Z M114 208 L114 200 A5 5 0 0 1 124 200 L124 208 Z M176 208 L176 200 A5 5 0 0 1 186 200 L186 208 Z M190 208 L190 200 A5 5 0 0 1 200 200 L200 208 Z M204 208 L204 200 A5 5 0 0 1 214 200 L214 208 Z" fill="#C9529C" opacity=".55"/>
+<path d="M82 214 Q150 172 218 214" fill="none" stroke="#fff" stroke-opacity=".3" stroke-width="4" stroke-linecap="round" stroke-linejoin="round"/>
+<path d="M118 304 q8 -6 16 0 t16 0 t16 0 t16 0" fill="none" stroke="#4C9EC2" stroke-width="4" stroke-linecap="round" opacity=".8"/><path d="M128 296 q6 -4 12 0 t12 0 t12 0" fill="none" stroke="#86CDE8" stroke-width="3" stroke-linecap="round" opacity=".8"/>
+<path d="M84 200 Q110 170 140 160 Q110 182 96 246 Z" fill="#fff" opacity=".42" filter="url(#pchannelsf)"/>
+<circle cx="126" cy="232" r="7" fill="#1B1B1F"/><circle cx="123.55" cy="229.55" r="2.1" fill="#fff" opacity=".9"/><circle cx="174" cy="232" r="7" fill="#1B1B1F"/><circle cx="171.55" cy="229.55" r="2.1" fill="#fff" opacity=".9"/><circle cx="174" cy="232" r="24" fill="url(#pchannelsl)" stroke="#fff" stroke-opacity=".9" stroke-width="4"/><circle cx="174" cy="232" r="17" fill="none" stroke="#fff" stroke-opacity=".45" stroke-width="2"/><path d="M160.8 223.6 A16.799999999999997 16.799999999999997 0 0 1 171.6 215.68" fill="none" stroke="#fff" stroke-width="4" stroke-linecap="round" opacity=".85"/><path d="M140 260 Q150 268 160 260" fill="none" stroke="#1B1B1F" stroke-width="3" stroke-linecap="round" opacity=".7"/>
+<path d="M226 230 Q244 224 246 210" fill="none" stroke="#EC80C2" stroke-width="13" stroke-linecap="round" stroke-linejoin="round" opacity=".96"/><circle cx="246" cy="210" r="10" fill="#EC80C2"/></svg></div>
+<div class="mcard-head"><div><h3 class="mcard-name">Venice</h3><div class="mcard-role">Channels</div></div>
+<div class="mcard-sw" aria-hidden="true"><span style="background:#FFD6F0"></span><span style="background:#F28CCB"></span><span style="background:#C9529C"></span></div></div>
+<div class="mcard-row"><div class="mcard-label">Shape</div><div class="mcard-text">A humped bridge with a centre arch, a small portico on top and rows of shop windows, like the Rialto Bridge in Venice.</div></div>
+<div class="mcard-row"><div class="mcard-label">Why it fits</div><div class="mcard-text">Venice is a city of channels, and the Rialto was a market bridge. Venice lists the products on every sales channel and keeps stock and prices in step.</div></div>
+<div class="mcard-pair"><div class="mcard-row"><div class="mcard-label">Pose</div><div class="mcard-text">Holds a gondola oar.</div></div><div class="mcard-row"><div class="mcard-label">Colour</div><div class="mcard-text">Murano magenta</div></div></div>
+</article></div><p class="dl"><a href="https://raw.githubusercontent.com/moeghashim/tensquads-design-system/main/mascots/svg/venice.svg">SVG</a><a href="https://raw.githubusercontent.com/moeghashim/tensquads-design-system/main/mascots/png/venice.png">PNG</a><a href="https://raw.githubusercontent.com/moeghashim/tensquads-design-system/main/mascots/jpeg/venice.jpg">JPEG</a><a href="https://raw.githubusercontent.com/moeghashim/tensquads-design-system/main/mascots/cards/png/venice.png">Card PNG</a><a href="https://raw.githubusercontent.com/moeghashim/tensquads-design-system/main/mascots/cards/jpeg/venice.jpg">Card JPEG</a></p></div></div>
 </section>
 </div>
 </main>

diff --git a/README.md b/README.md
@@ -2,7 +2,7 @@
 
 This repository is the reference for how tensquads looks. It is shown as a page at <https://10squads.com/design>. The same page is `index.html` here.
 
-![The eleven squad mascots](mascots/lineup.png)
+![The thirteen squad mascots](mascots/lineup.png)
 
 ## Contents
 
@@ -13,7 +13,7 @@ This repository is the reference for how tensquads looks. It is shown as a page 
 | `mascots/png/` | One PNG for each agent, 1200 × 1480 px, with a clear background. |
 | `mascots/jpeg/` | One JPEG for each agent, 1200 × 1480 px, with a white background. |
 | `mascots/cards/png/`, `mascots/cards/jpeg/` | One card for each agent, 1200 px wide: the mascot, name, role, palette, shape, reason, pose and colour. |
-| `mascots/lineup.png`, `mascots/lineup.jpg` | All eleven mascots in one image. |
+| `mascots/lineup.png`, `mascots/lineup.jpg` | All thirteen mascots in one image. |
 | `mascots/mascots.json` | The name, role, palette, shape, reason and pose of each mascot, with its file paths. |
 | `agent-ui/README.md` | Agent-UI, the visual language of the app: principles, content, colour, type, spacing, focus, themes, chat, icons and layout. |
 | `agent-ui/data-display.md` | The rules for dashboards and charts. |
@@ -46,6 +46,8 @@ Each agent has one frosted toy. Each body takes its shape from the place the age
 | Delphi | Analytics | Delphi, Greece | Fluted column with a scroll capital | Holds up a chart | Laurel olive |
 | Sydney | People | Sydney, Australia | Two shell sails, like the Opera House | Shows a name badge | Harbour cyan |
 | Greenwich | Places | Greenwich, London | Observatory dome with a shutter slit and a red time ball | Holds up a folded map | Meridian lime |
+| Alexandria | Catalog | Alexandria, Egypt | Tall bookcase with an arched top and shelves of book spines | Holds up a price tag | Lapis indigo |
+| Venice | Channels | Venice, Italy | Humped bridge with a centre arch, a portico and shop windows, like the Rialto | Holds a gondola oar | Murano magenta |
 
 The exact colours are in `mascots/mascots.json`.
 
